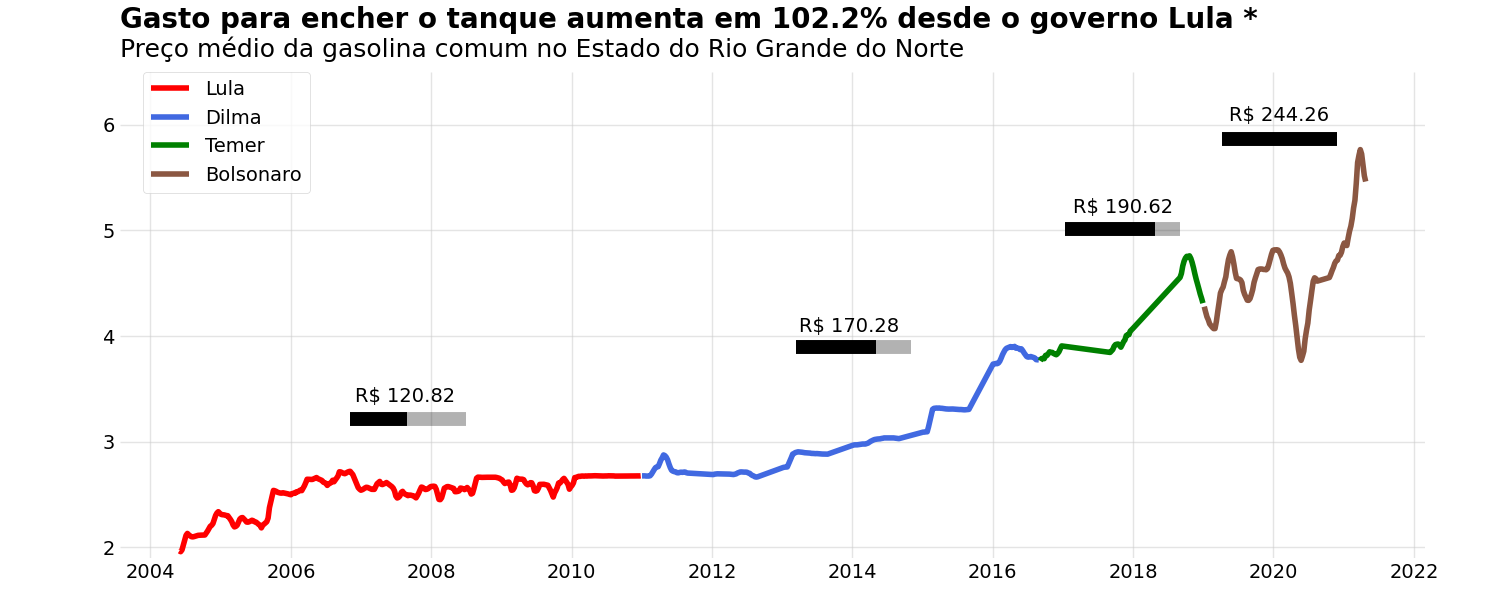
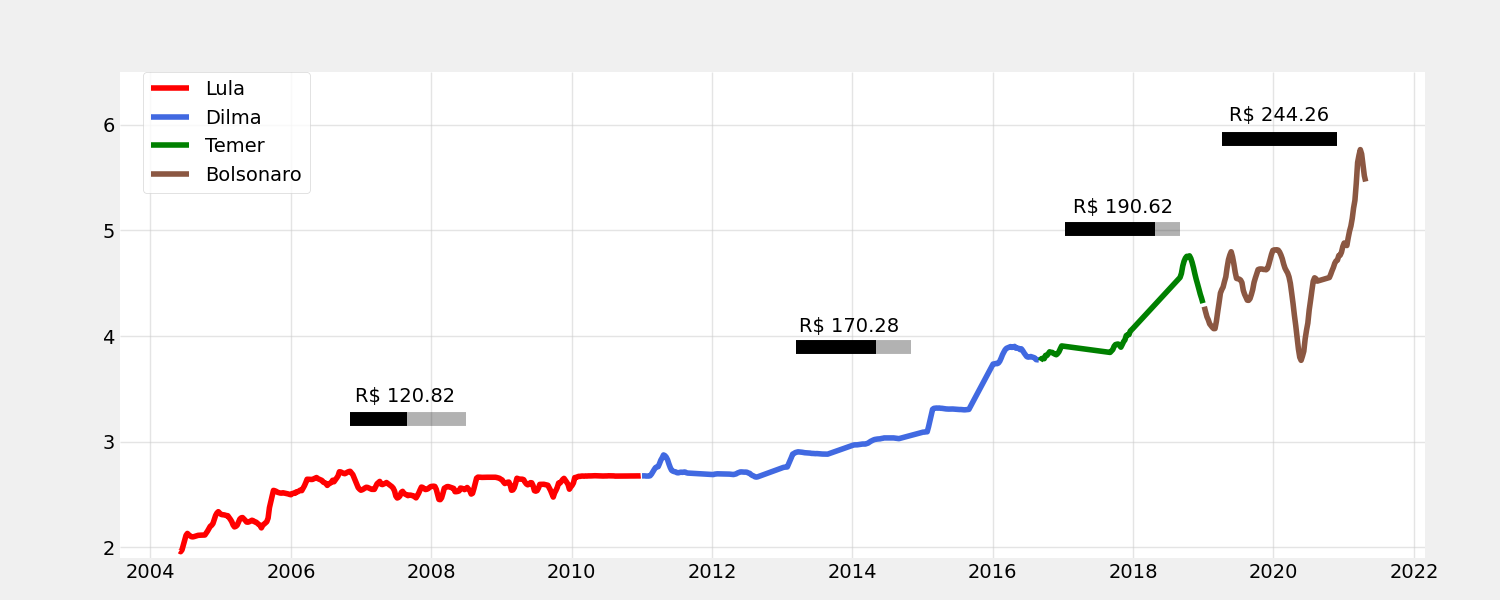
Streamlit

Changed region(s): [[0.0613, 0.0, 0.8587, 0.12]]

diff --git a/Storytelling Data Visualization: Gas Prices in Brazil/streamlit_app.py b/Storytelling Data Visualization: Gas Prices in Brazil/streamlit_app.py
@@ -1,0 +1,158 @@
+"""
+Author: Vitor Gaboardi dos Santos
+Date: May 2022
+Dashboard comparing gas prices in Brazil using Streamlit.
+"""
+
+from datetime import timedelta
+import logging
+import pandas as pd
+import streamlit as st
+import altair as alt
+import matplotlib.pyplot as plt
+from matplotlib import style
+style.use('fivethirtyeight')
+
+logging.basicConfig(
+    filename='./logging.log',
+    level=logging.INFO,
+    filemode='w',
+    format='%(asctime)s - %(name)s - %(levelname)s - %(message)s')
+
+def read_data(path, sep=''):
+    """
+    Read a comma-separated values (csv) file and stores in a dataframe using pandas.
+
+    Args:
+    path: string. Any valid string path of the csv.
+    sep: string. Delimiter to use.
+    """
+    try:
+        data_frame = pd.read_csv(path, sep=sep)
+        assert data_frame is not None
+        assert len(data_frame.columns) > 0
+        logging.info('Dataframe lido corretamente')
+    except ValueError:
+        logging.error('Caminho do arquivo ou tipo do objeto inválido: %s',type(path))
+    except FileNotFoundError:
+        logging.error('O seguinte caminho ou diretório não existe: %s',path)
+    return data_frame
+
+def columns_processing(data_frame,select_columns,rename_columns=''):
+    """
+    Select and rename columns from dataframe.
+
+    Args:
+    data_frame: pandas dataFrame. Any valid string path of the csv.
+    select_columns: list of string. Delimiter to use.
+    rename_columns: dict of strings. Key: old column name. Value: new columns names.
+    """
+    new_data_frame = data_frame[select_columns].copy()
+    if rename_columns != '':
+        new_data_frame.rename(columns=rename_columns, inplace=True)
+    return new_data_frame
+
+def rolling_mean(data_frame,target_column,num_samples):
+    """
+    Computes moving average considering the column *target_column* and *num_samples* last samples.
+
+    Args:
+    data_frame: pandas dataFrame. Any valid string path of the csv.
+    target_column: string. Column to compute the moving average.
+    num_samples: int. Number of samples to consider in the moving average.
+    """
+    moving_average_result = data_frame[target_column].rolling(num_samples).mean()
+    return moving_average_result
+
+def select_presidents(dataframe):
+    """
+    Creates a new column representing the president.
+
+    Args:
+    data_frame: pandas dataFrame. Any valid string path of the csv.
+    """
+    if dataframe['DATA'].year < 2011:
+        return 'Lula'
+    elif dataframe['DATA'].year < 2016 or (dataframe['DATA'].year <= 2016 and dataframe['DATA'].month < 9):
+        return 'Dilma'
+    elif (dataframe['DATA'].year <= 2016 and dataframe['DATA'].month >= 9) or dataframe['DATA'].year < 2019:
+        return 'Temer'
+    else:
+        return 'Bolsonaro'
+
+# Define the base time-series chart.
+def get_chart(data):
+    """
+    Creates a chart structure to be build at Streamlit.
+
+    Args:
+    data: pandas dataFrame. Any valid string path of the csv.
+    """
+    hover = alt.selection_single(
+        fields=["DATA"],
+        nearest=True,
+        on="mouseover",
+        empty="none",
+    )
+
+    lines = (
+        alt.Chart(data, title="")
+        .mark_line()
+        .encode(
+            x="DATA",
+            y="PRECO",
+            color="PRESIDENTE",
+        )
+    )
+
+    # Draw points on the line, and highlight based on selection
+    points = lines.transform_filter(hover).mark_circle(size=65)
+
+    # Draw a rule at the location of the selection
+    tooltips = (
+        alt.Chart(data)
+        .mark_rule()
+        .encode(
+            x="DATA",
+            y="PRECO",
+            opacity=alt.condition(hover, alt.value(0.3), alt.value(0)),
+            tooltip=[
+                alt.Tooltip("DATA", title="Data"),
+                alt.Tooltip("PRECO", title="Preço (R$)"),
+            ],
+        )
+        .add_selection(hover)
+    )
+    return (lines + points + tooltips).interactive()
+
+
+# read csv file
+dataframe = read_data('gas_prices_brazil.tsv', sep='\t')
+
+# processing dataframe
+gas_prices = columns_processing(
+    dataframe,
+    ['DATA INICIAL', 'ESTADO', 'PRODUTO', 'PREÇO MÉDIO REVENDA'],
+    {'DATA INICIAL':'DATA', 'PREÇO MÉDIO REVENDA': 'PRECO'})
+gas_prices_rn = gas_prices[
+    (gas_prices['ESTADO'] == 'RIO GRANDE DO NORTE') & (gas_prices['PRODUTO'] == 'GASOLINA COMUM')
+    ].drop(columns=['ESTADO','PRODUTO'])
+gas_prices_rn['DATA'] = pd.to_datetime(gas_prices_rn['DATA'])
+gas_prices_rn.reset_index(drop=True, inplace=True)
+gas_prices_rn['MÉDIA MOVEL'] = rolling_mean(gas_prices_rn,'PRECO',4)
+
+# adding president column
+gas_prices_rn['PRESIDENTE'] = gas_prices_rn.apply(select_presidents, axis=1)
+
+# getting chart
+chart = get_chart(gas_prices_rn)
+
+# title
+st.subheader('Gasto para encher o tanque aumenta em 102.2% desde o governo Lula!')
+st.text('Preço médio da gasolina comum no Estado do Rio Grande do Norte:')
+
+# plotting chart
+st.altair_chart(
+    (chart).interactive(),
+    use_container_width=True
+)

diff --git a/Storytelling Data Visualization: Gas Prices in Brazil/README.md b/Storytelling Data Visualization: Gas Prices in Brazil/README.md
@@ -71,4 +71,22 @@ Além disso, após aplicar o valor médio do preço para cada presidente, obteve
 
 *OBS: Valores computados considerados foram entre Maio de 2004 e Abril de 2021 no estado do Rio Grande do Norte.*
 
+# Streamlit
 
+Com o objetivo de visualizar de uma maneira interativa o gráfico proposto, criou-se uma aplicação no [StreamLit](https://streamlit.io/)
+
+Para instalar o streamlist, basta executar o comando abaixo logado no ambiente virtual do anaconda:
+
+```
+pip install streamlit
+``` 
+
+Em seguida, para rodar o programa desenvolvido (*streamlit_app.py) basta executar o seguinte comando:
+
+```
+streamlit run streamlit_app.py
+``` 
+
+Isso irá permitir a visualização do projeto no browser através de uma URL Local e uma URL externa. No dashboard desenvolvido, é possível ver com mais detalhes as informações mostradas no gráfico, como por exemplo dar zoom e verificar o preço exato de um ponto da curva, conforme ilustrado na figura abaixo, onde é possível verificar que no dia 25 de janeiro de 2020, o preço médio da gasolina no Rio Grande do Norte estava em 4,809 reais.
+
+![streamlit](./images/streamlit.png)
